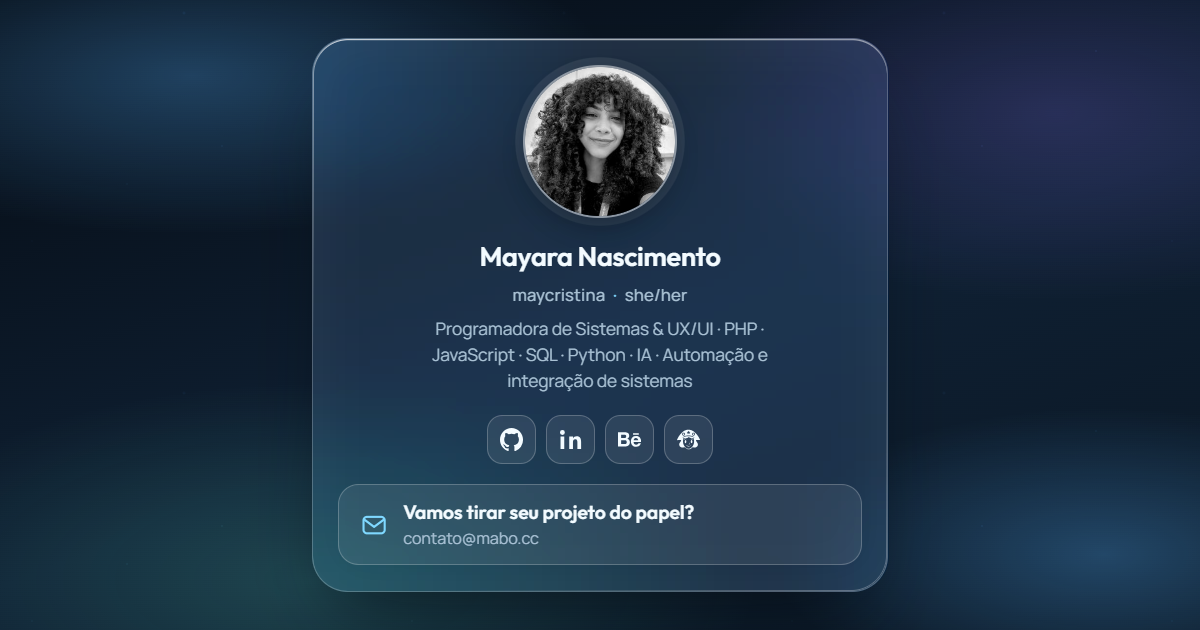
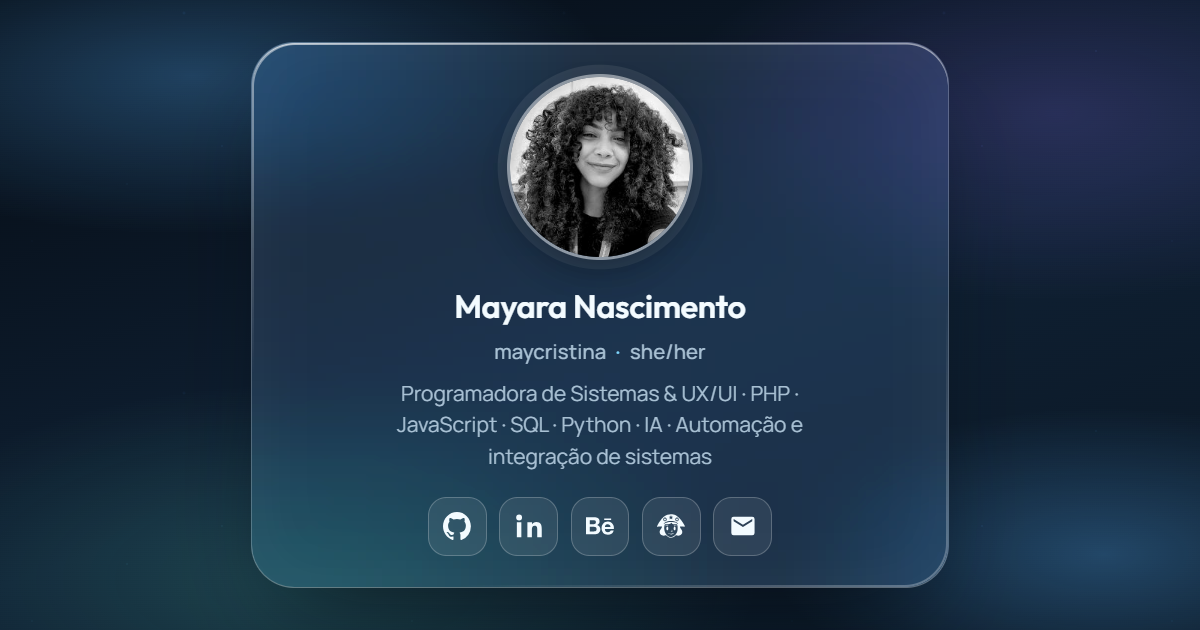
site: e-mail como 5º ícone da barra social (balão Contato, i18n) e novo preview.png

Changed region(s): [[0.185, 0.0603, 0.8017, 0.9651], [0.3392, 0.4524, 0.6783, 0.754]]

diff --git a/index.html b/index.html
@@ -600,62 +600,6 @@
             font-size: 12px;
         }
 
-        .convite {
-            display: flex;
-            align-items: center;
-            gap: 12px;
-            width: 100%;
-            padding: 12px 16px;
-            border-radius: 16px;
-            text-align: left;
-            text-decoration: none;
-            color: var(--btn-ink);
-            background: var(--btn-bg);
-            border: 1px solid var(--btn-border);
-            transition:
-                transform 0.15s,
-                background 0.15s,
-                border-color 0.15s;
-        }
-
-        .convite:hover,
-        .convite:focus-visible {
-            transform: translateY(-2px);
-            border-color: var(--accent);
-        }
-
-        .convite:focus-visible {
-            outline: 2px solid var(--accent);
-            outline-offset: 2px;
-        }
-
-        .convite svg {
-            flex: none;
-            width: 22px;
-            height: 22px;
-            color: var(--accent);
-        }
-
-        .convite-texto {
-            display: flex;
-            flex-direction: column;
-            gap: 2px;
-            min-width: 0;
-        }
-
-        .convite-titulo {
-            font-family: Outfit, ui-sans-serif, system-ui, sans-serif;
-            font-weight: 600;
-            font-size: 15px;
-            line-height: 1.25;
-            text-wrap: balance;
-        }
-
-        .convite-email {
-            font-size: 12.5px;
-            color: var(--text-2);
-            overflow-wrap: anywhere;
-        }
     </style>
 </head>
 
@@ -744,18 +688,11 @@
                         d="M11.17 22.07C10.2 21.87 9.2 21.3 8.27 20.41C7.73 19.88 7.76 19.9 7.3 20.11C6.44 20.5 5.2 20.48 4.29 20.07C3.01 19.48 2.29 18.45 2.29 17.18C2.29 16.4 2.48 15.93 3.22 14.88C3.85 13.97 4.4 12.85 4.32 12.64C4.27 12.51 4.09 12.51 2.63 12.56C-.31 12.67-.16 12.7 .14 12.01C.91 10.24 2.16 8.21 3.48 6.59C4.01 5.93 5.59 4.37 6.14 3.96C8.27 2.33 10.51 1.68 13.03 1.95C14.56 2.11 15.76 2.53 17.12 3.39C19.48 4.87 22.15 8.21 23.75 11.68C24.05 12.32 24.09 12.46 23.99 12.56C23.92 12.63 23.09 12.63 21.31 12.56C19.84 12.5 19.74 12.51 19.74 12.73C19.74 13.06 20.26 14.08 20.82 14.86C21.58 15.91 21.75 16.34 21.75 17.18C21.76 17.95 21.6 18.43 21.16 19C20.18 20.29 18.31 20.75 16.75 20.1C16.32 19.93 16.33 19.93 15.74 20.46C14.15 21.89 12.73 22.4 11.17 22.07ZM12.73 21.58C14.15 21.3 15.7 20.08 16.61 18.55C17.16 17.62 17.53 16.57 17.71 15.42C17.81 14.82 17.79 12.71 17.69 12.18C17.56 11.52 17.39 10.89 17.29 10.7L17.2 10.52L16.85 10.56C15.25 10.74 13.77 10.46 12.87 9.79C12.72 9.67 12.59 9.56 12.59 9.53C12.59 9.49 12.36 9.35 12.3 9.35C12.29 9.35 12.15 9.46 12 9.6C11.11 10.39 9.25 10.79 7.5 10.55C6.74 10.45 6.76 10.44 6.5 11.47C5.69 14.72 6.69 18.45 8.86 20.27C10.21 21.41 11.48 21.84 12.73 21.58ZM11.52 19.22C11.16 19.17 10.68 18.99 10.27 18.75C9.46 18.27 9.19 17.79 9.95 18.18C11.32 18.86 13 18.84 14.26 18.11C14.39 18.03 14.47 18.01 14.5 18.04C14.58 18.12 14.49 18.25 14.18 18.48C13.32 19.13 12.5 19.36 11.52 19.22ZM11.88 17.2C11.84 17.19 11.82 17.14 11.82 17.09C11.82 17 11.86 16.98 12.33 16.8C12.9 16.59 12.97 16.39 12.7 15.85C12.48 15.4 12.45 15.24 12.59 15.24C12.64 15.24 12.68 15.25 12.68 15.27C12.68 15.3 12.81 15.46 12.97 15.63C13.32 16.02 13.39 16.2 13.31 16.49C13.24 16.75 13 17.02 12.76 17.12C12.57 17.19 11.98 17.25 11.88 17.2ZM8.44 15.58C7.8 14.92 7.94 12.95 8.65 12.63C9.27 12.36 9.78 13.17 9.72 14.33C9.67 15.28 9.37 15.78 8.84 15.78C8.65 15.78 8.61 15.76 8.44 15.58ZM14.77 15.62C14.22 15.13 14.15 13.57 14.64 12.92C15.15 12.25 15.83 12.62 15.99 13.66C16.05 14.05 16.02 14.71 15.92 15.04C15.72 15.71 15.17 15.99 14.77 15.62ZM7.08 12.22C7.04 12.11 7.23 11.78 7.44 11.59C8 11.08 9.03 11.01 9.61 11.45C9.98 11.73 9.88 11.89 9.42 11.72C8.66 11.43 7.95 11.57 7.39 12.11C7.17 12.31 7.12 12.33 7.08 12.22ZM16.62 12.06C16.14 11.68 15.91 11.59 15.37 11.6C15.02 11.6 14.86 11.62 14.64 11.7C14.22 11.85 14.09 11.77 14.36 11.52C14.63 11.27 14.83 11.19 15.33 11.17C15.99 11.14 16.47 11.35 16.8 11.8C17.12 12.25 17.02 12.39 16.62 12.06ZM6.2 10.12C7.78 8.94 10.25 8.42 13.29 8.62C15.25 8.76 16.86 9.31 18 10.23C18.21 10.4 18.28 10.44 18.29 10.38C18.34 10.11 17.51 9.28 16.72 8.81C15.08 7.85 11.89 7.53 9.33 8.06C7.81 8.38 6.25 9.31 5.82 10.16C5.63 10.53 5.65 10.53 6.2 10.12ZM7.51 7.83C7.82 7.68 8.11 7.39 8.27 7.08C8.45 6.73 8.46 6.1 8.28 5.73C8.14 5.43 7.85 5.13 7.54 4.97C7.21 4.79 6.52 4.79 6.18 4.97C5.9 5.11 5.55 5.48 5.42 5.76C5.27 6.1 5.28 6.76 5.45 7.07C5.87 7.88 6.75 8.2 7.51 7.83ZM17.71 7.89C18.05 7.79 18.42 7.45 18.62 7.07C18.78 6.79 18.77 6.03 18.61 5.72C18.47 5.43 18.16 5.12 17.87 4.97C17.54 4.8 16.84 4.79 16.54 4.95C15.97 5.25 15.7 5.68 15.68 6.33C15.66 6.75 15.66 6.79 15.8 7.06C16.16 7.8 16.94 8.14 17.71 7.89ZM6.17 7.29C6.16 7.25 6.18 7.11 6.22 6.98C6.33 6.64 6.32 6.64 6.04 6.38C5.7 6.08 5.72 6 6.13 6C6.48 6 6.54 5.96 6.64 5.62C6.76 5.18 6.91 5.18 7.04 5.61C7.15 5.93 7.24 6 7.56 6C8.01 6 8.01 6.09 7.57 6.46C7.41 6.6 7.4 6.69 7.5 7.02C7.61 7.39 7.5 7.46 7.17 7.23C6.9 7.03 6.79 7.03 6.54 7.22C6.35 7.37 6.22 7.4 6.17 7.29ZM16.53 7.25C16.53 7.19 16.56 7.06 16.6 6.95C16.69 6.69 16.65 6.57 16.39 6.38C16 6.11 16.04 6 16.51 6C16.84 6 16.9 5.96 17.01 5.63C17.15 5.18 17.28 5.18 17.41 5.61C17.52 5.93 17.61 6 17.94 6C18.32 6 18.34 6.09 18.03 6.36C17.77 6.59 17.74 6.69 17.87 7.03C18 7.37 17.86 7.46 17.54 7.23C17.26 7.02 17.2 7.02 16.94 7.2C16.65 7.39 16.53 7.41 16.53 7.25ZM11.44 6C11.7 5.83 11.95 5.68 12.01 5.68C12.07 5.68 12.31 5.82 12.56 5.98C13.25 6.43 13.3 6.39 13.06 5.66C12.96 5.36 12.91 5.1 12.92 5.04C12.94 4.98 13.13 4.8 13.38 4.6C14.01 4.12 13.98 4.05 13.15 4.05C12.52 4.05 12.53 4.06 12.3 3.41C12.2 3.14 12.11 2.91 12.08 2.89C12 2.84 11.89 3.01 11.74 3.45C11.53 4.07 11.56 4.05 10.85 4.06C10.06 4.08 10.05 4.12 10.66 4.6C10.92 4.79 11.11 4.97 11.12 5.03C11.14 5.09 11.08 5.35 10.98 5.66C10.73 6.43 10.77 6.47 11.44 6Z" />
                 </svg><span class="tooltip-texto" role="tooltip"><span data-i18n="mabo">Ateliê
                         criativo</span></span></a>
+            <a class="rede tooltip" id="botaoEmail" href="mailto:contato@mabo.cc?subject=Convite%20para%20projeto%20%E2%80%94%20contato%20pelo%20site&amp;body=Ol%C3%A1%2C%20Mayara%21%20Vi%20o%20seu%20site%20e%20gostaria%20de%20conversar%20sobre%20um%20projeto.%0D%0A%0D%0AProjeto%3A%0D%0APrazo%3A%0D%0AOr%C3%A7amento%3A%0D%0A"
+                aria-label="Enviar e-mail para Mayara" data-i18n-aria="aria_contato"><svg viewBox="0 0 24 24" fill="currentColor" aria-hidden="true">
+                    <path d="M20 4H4a2 2 0 0 0-2 2v12a2 2 0 0 0 2 2h16a2 2 0 0 0 2-2V6a2 2 0 0 0-2-2Zm0 4-8 5-8-5V6l8 5 8-5v2Z" />
+                </svg><span class="tooltip-texto" role="tooltip"><span data-i18n="contato">Contato</span></span></a>
         </nav>
-        <a class="convite" id="botaoEmail" href="mailto:contato@mabo.cc?subject=Convite%20para%20projeto%20%E2%80%94%20contato%20pelo%20site&amp;body=Ol%C3%A1%2C%20Mayara%21%20Vi%20o%20seu%20site%20e%20gostaria%20de%20conversar%20sobre%20um%20projeto.%0D%0A%0D%0AProjeto%3A%0D%0APrazo%3A%0D%0AOr%C3%A7amento%3A%0D%0A">
-            <svg viewBox="0 0 24 24" fill="none" stroke="currentColor" stroke-width="1.8" stroke-linecap="round"
-                stroke-linejoin="round" aria-hidden="true">
-                <rect x="3" y="5" width="18" height="14" rx="3" />
-                <path d="m4 7.5 8 6 8-6" />
-            </svg>
-            <span class="convite-texto">
-                <span class="convite-titulo" data-i18n="convite_titulo">Vamos tirar seu projeto do papel?</span>
-                <span class="convite-email">contato@mabo.cc</span>
-            </span>
-        </a>
     </main>
     <script src="assets/app.min.js" defer></script>
 </body>
